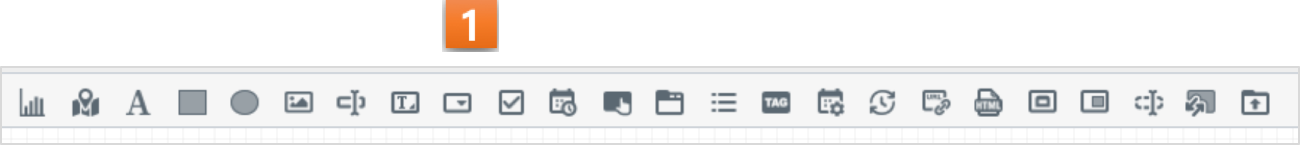
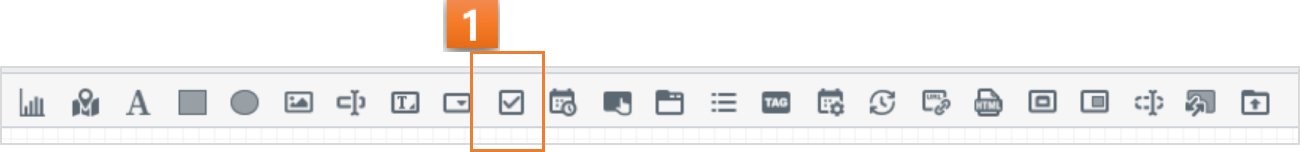
add images & modified iris studio desc

diff --git a/usecase3-map/IRIS_Studio.map_layer_v01.rst b/usecase3-map/IRIS_Studio.map_layer_v01.rst
@@ -128,8 +128,8 @@ IRIS Studio : map 에서 여러개의 레이어로 아이템 표시하기
 |
 
 .. image:: ../images/map_suwon/sw_chb_2.png
-    :height: 200
-    :width: 400
+    :height: 300
+    :width: 600
     :scale: 100%
     :alt: 체크박스_2
 
@@ -163,15 +163,87 @@ IRIS Studio : map 에서 여러개의 레이어로 아이템 표시하기
 
 |
 
-- 주차장의 위/경도 좌표를 마커(점) 으로 표시하고, 색상을 지정한다.
-
-- 마커에 해당하는 컬럼과 커서를 대면 **툴팁** 으로 표시될 컬럼을 지정한다.
-
+- 주차장 layer 의 시각화 설정하기
+    - 시각화 유형은 위/경도 좌표를 마커(점) 으로 표시하기
+    
 .. image:: ../images/map_suwon/sw_layer3.png
     :height: 450
     :width: 800
     :scale: 100%
     :alt: layer_1 마커
+
+- 마커의 시각화 옵션 설정하기
+    - 마커의 종류 및 갯수, 마커의 크기 지정
+
+.. image:: ../images/map_suwon/sw_layer_mk_size.png
+    :scale: 100%
+    :alt: layer_1 마커 사이즈
+
+|
+
+- 마커의 색상 설정 : 주차장의 색상을 정하는 컬럼(여기서는 PARTITION_DATE 를 지정함)에 따라 그라디언트로 표현한다.
+    - 임계치 및 객체별 자동은 데이터 및 case 에 따라 지정할 수 있으므로 사용자 메뉴얼을 참고할 것
+
+.. image:: ../images/map_suwon/sw_layer_mk_color.png
+    :scale: 100%
+    :alt: layer_1 마커 색상
+
+|
+
+- 마커의 데이터 설정 : 마커의 위/경도에 해당하는 컬럼을 지정한다.
+    - 색상 컬럼은 group by 절의 컬럼 에 해당하며, 주차장 마커의 색상을 다르게 표현하고 샆을 때 사용한다.
+    - 마커 색상 탭에서 그라디언트로 지정한 색상에 따라 주차장 마커 색이 표현된다.
+    - 여기서는 모두 동일한 날짜의 데이터이므로 주차장 마커의 색은 같은 색상이다.
+    
+.. image:: ../images/map_suwon/sw_layer_mk_data.png
+    :scale: 100%
+    :alt: layer_1 데이터
+
+|
+
+- 마커의 툴팁 설정 : 지도에서 특정 주차장 마커에 커서를 대면 보이는 정보를 설정한다.
+    - 만약 컬럼이 보이지 않으면 **실행** 버튼을 눌러서 지도에 주차장 마커가 표시되게 한다.
+    - 그 후에 마커의 시각화 옵션의 툴팁 설정 창을 열면 툴팁으로 보여 줄 수 있는 컬럼이 보인다.
+    - 이 컬럼은 지도의 데이터 항목에서 IRIS DB 에 보낸 SQL구문의 컬럼들이다.
+
+.. code::
+
+    /*+ LOCATION ( PARTITION = '20191017000000' ) */ 
+    SELECT 
+	    PARTITION_DATE, 
+        PARKING_PLACE_NAME as FACILITY_NAME, 
+        PARKING_PLACE_MANAGEMENT_NUMBER,
+        PARKING_PLACE_SECTION, PARKING_PLACE_TYPE,
+        PLACE_OF_LOCATION_ROAD_NAME_ADDRESS as ADDRESS,  
+        PARKING_COMPARTMENT_COUNT, OPERATION_DAY,
+        WEEKDAY_OPERATION_BEGIN_TIME, WEEKDAY_OPERATION_END_TIME, 
+        SATURDAY_OPERATION_BEGIN_TIME, SATURDAY_OPERATION_END_TIME, 
+        HOLIDAY_OPERATION_BEGIN_TIME, HOLIDAY_OPERATION_END_TIME, 
+        CHARGE_INFORMATION, PARKING_BASIS_TIME, PARKING_BASIS_CHARGE, 
+        ADDITION_UNIT_TIME, ADDITION_UNIT_CHARGE, DAY_PARKING_TICKET_CHARGE_APPLICATION_TIME, 
+        DAY_PARKING_TICKET_CHARGE, MONTH_FIXED_TERM_TICKET_CHARGE, PAY_METHOD, SPECIAL_MATTER, 
+        MANAGEMENT_INSTITUTION_NAME, TELEPHONE_NUMBER,
+        LATITUDE, LONGITUDE
+    FROM 
+	    JPHONG.SUWON_PARKING_PLACE_INFORMATION
+    ;
+
+
+
+.. image:: ../images/map_suwon/sw_layer_mk_tt.png
+    :scale: 100%
+    :alt: layer_1 마커 툴팁
+
+|
+
+- 툴팁 실행 예시
+
+.. image:: ../images/map_suwon/sw_layer_mk_tt_2.png
+    :height: 450
+    :width: 800
+    :scale: 100%
+    :alt: layer_1 툴팁 예시
+
 
 - 동일한 방법으로 나머지 어린이보호구역/공공시설개방/CCTV/보안등정보 레이어를 생성한다.
 
@@ -227,7 +299,6 @@ IRIS Studio : map 에서 여러개의 레이어로 아이템 표시하기
     :width: 800
     :scale: 100%
     :alt: 최종
-
 
 |
 
